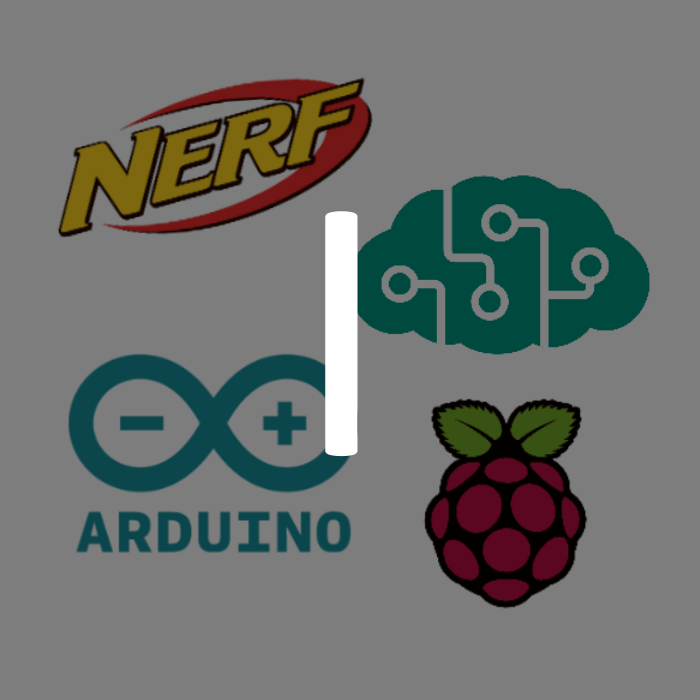
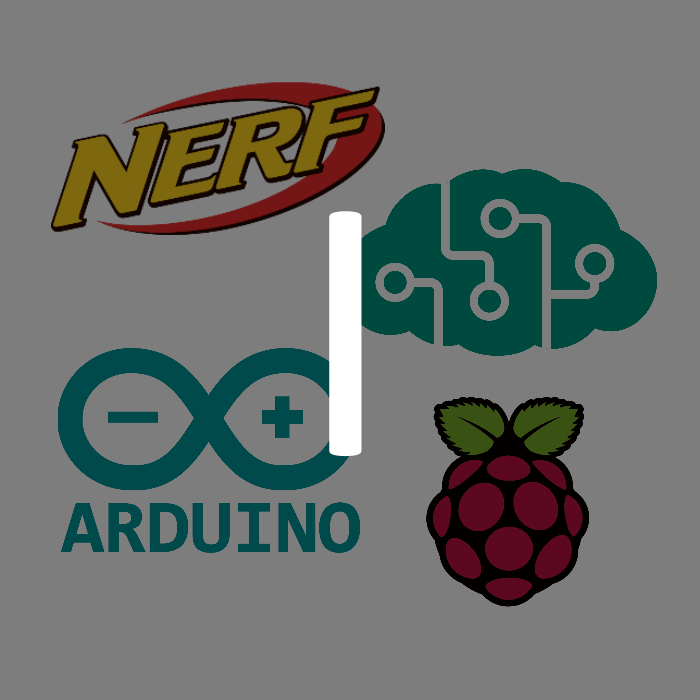
edited post 3,4 thumbnails to be consistent

diff --git a/content/post/4_IntelligentNerfPart2.md b/content/post/4_IntelligentNerfPart2.md
@@ -1,0 +1,36 @@
+---
+title: "Intelligent Nerf Turret Part 2: Custom Vision Service"
+date: 2017-06-09
+thumbnailImagePosition: left
+thumbnailImage: /img/posts/4_thumbnail.png
+coverImage: /img/posts/4_coverimage.png
+coverMeta: in
+coverSize: partial
+coverHeight: 40
+categories:
+- tech
+- hardware
+- cognitive services
+tags:
+- Microsoft Cognitive Services
+- Custom Vision Service
+- Image Recognition
+- Vision Models
+- Machine Learning
+
+draft:          true
+comments:       true
+showTags:       true
+showPagination: true
+showSocial:     true
+showDate:       true
+---
+
+Diving into and exploring Microsoft Custom Vision Service.
+
+<!--more-->
+<!--
+Notes:
+ThumbnailImage dimensions: 700px x 700px
+CoverImage dimensions: 1800px x 450px
+-->
